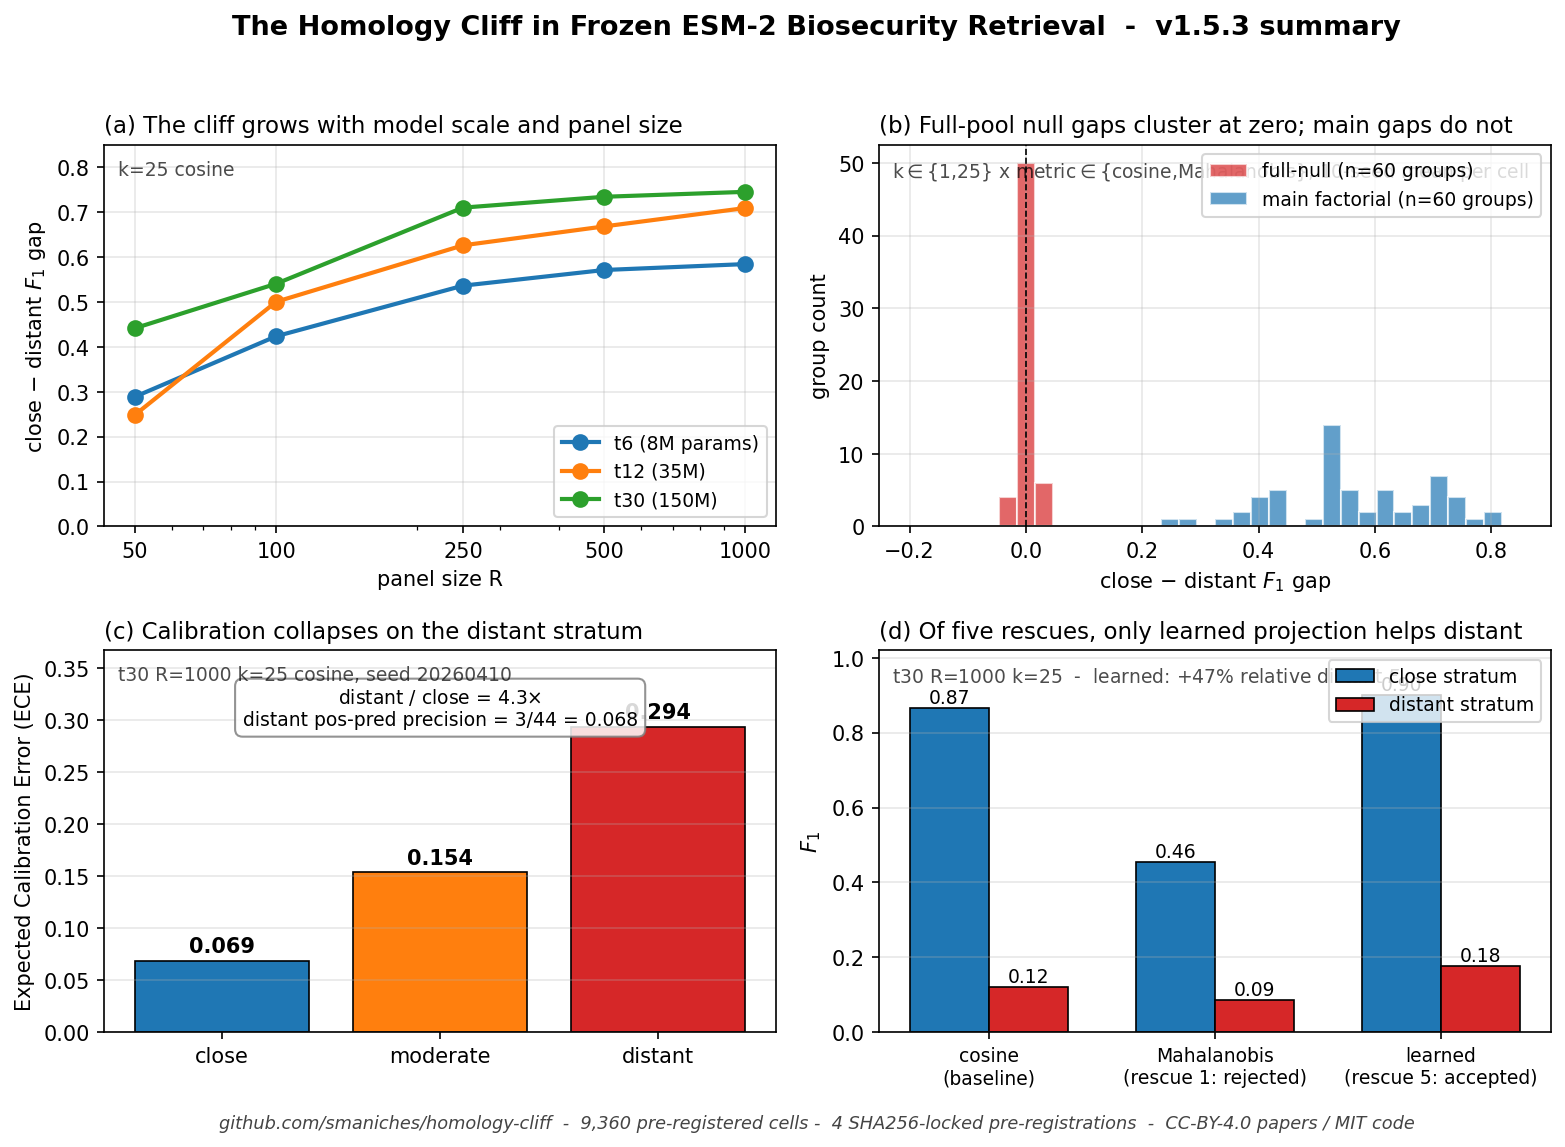
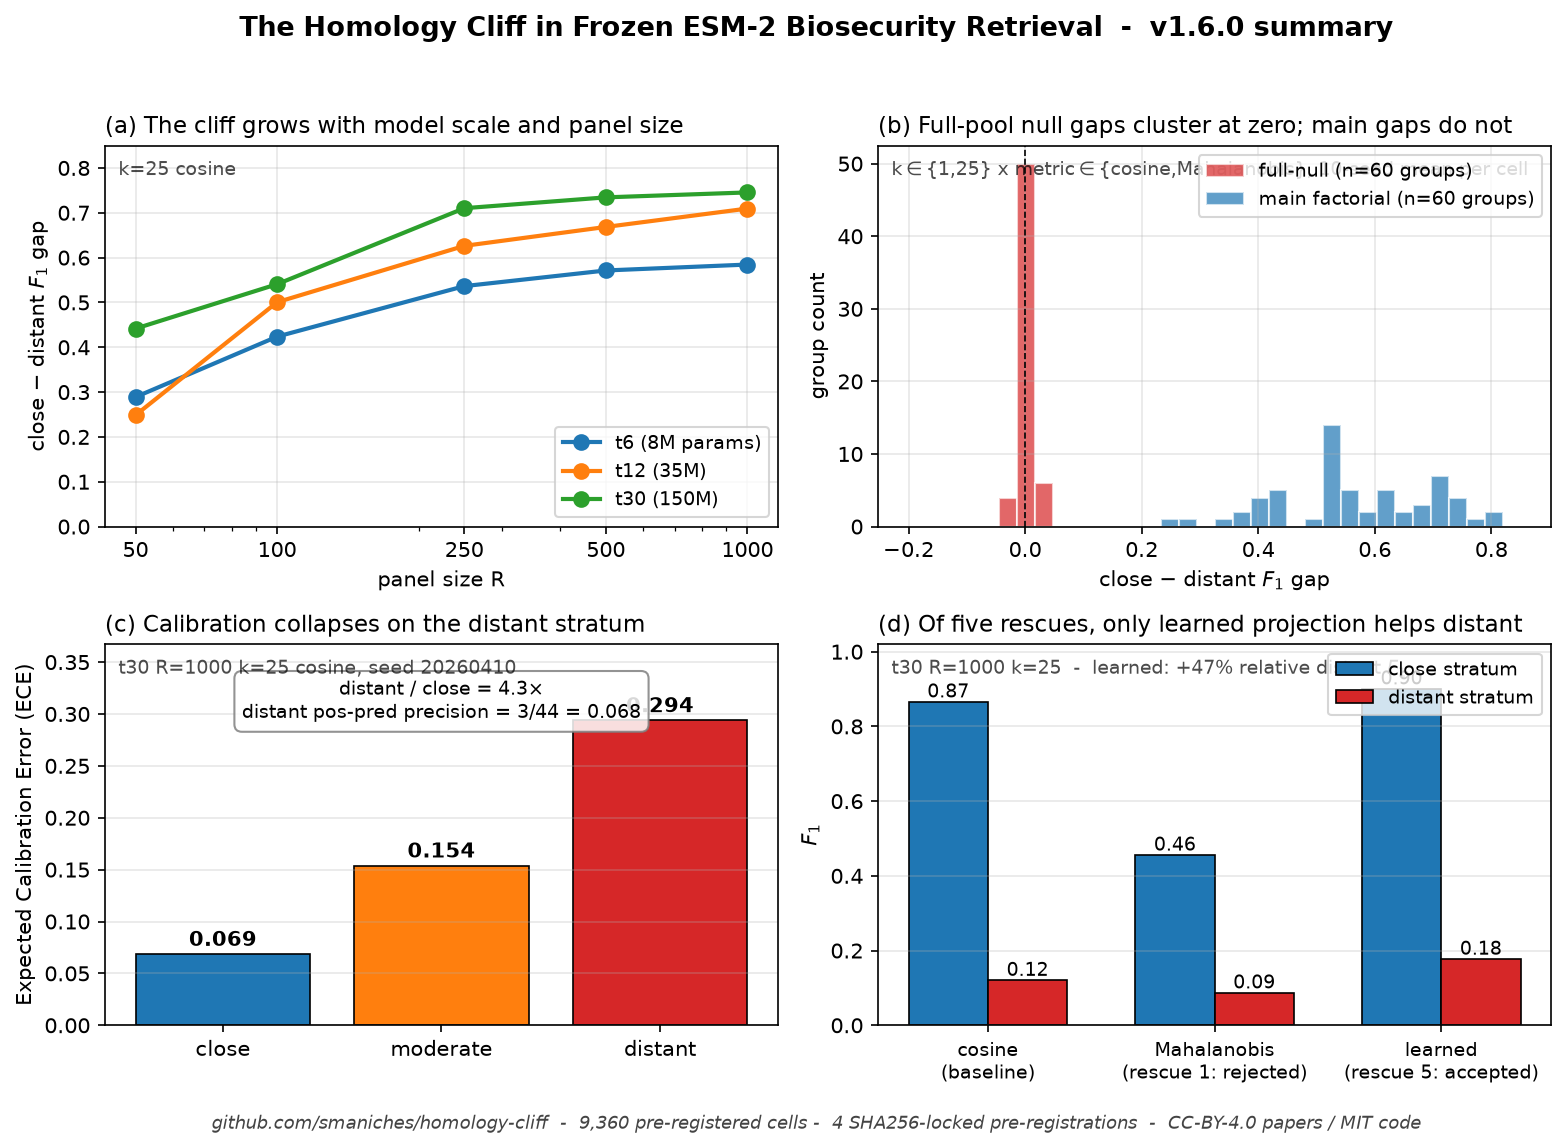
Release Homology Cliff v1.6.0 (#64)
Complete the v1.6.0 release-metadata snapshot begun in fc47902: move the
August 24 confirmatory CHANGELOG entries under a new [v1.6.0] heading and
restore a fresh empty [Unreleased]; bump README/CITATION.cff/codemeta.json/
pyproject.toml version and date fields to v1.6.0 / 2026-08-24; drop README's
now-superseded "Unreleased confirmatory update" callout (the finding is
already carried in full in the surrounding narrative); sync docs/index.html's
version marker; and correct README's stale 9,499 manifest-entry count to
9,500. Regenerate MANIFEST.sha256.json via scripts/update_manifest.py now
that the tracked-file set is final.

No experiment rerun, no scientific code/result/input change, no workflow
change, no tag or GitHub Release created. Canonical DOI
10.5281/zenodo.20143142 preserved everywhere; .zenodo.json left unchanged
(already correct for this release, no version field per its established
convention).

* chore(release): v1.6.0 figure label and canonical DOI micro-fix
Presentation/release-synchronization only:

- scripts/build_summary_figure.py: update the two current-release v1.5.3
  labels (module docstring, figure suptitle) to v1.6.0. No parsing logic,
  data sources, panels, axes, or captions changed.
- figures/cliff_summary.png: regenerated via
  `python scripts/build_summary_figure.py` from the same committed
  data/results_summaries/v3_final.txt and calibration_results.json; the
  only semantic change is the release label v1.5.3 -> v1.6.0.
[…]

diff --git a/docs/index.html b/docs/index.html
@@ -98,11 +98,11 @@
       <span><b>Santiago Maniches</b>, Independent Researcher</span>
       <span>ORCID <a href="https://orcid.org/0009-0005-6480-1987" style="color:#fff">0009-0005-6480-1987</a></span>
       <span>TOPOLOGICA LLC</span>
-      <span>v1.5.3 + confirmatory update (2026-08-24)</span>
+      <span>v1.6.0 (2026-08-24)</span>
     </div>
     <div class="badges">
       <a href="https://github.com/smaniches/homology-cliff">Repository</a>
-      <a href="https://doi.org/10.5281/zenodo.20143143">DOI 10.5281/zenodo.20143143</a>
+      <a href="https://doi.org/10.5281/zenodo.20143142">DOI 10.5281/zenodo.20143142</a>
       <a href="#papers">Five papers</a>
       <a href="#reproduce">Reproduce it</a>
       <a href="#scope">Scope &amp; limits</a>
@@ -263,18 +263,18 @@ python code/analyses/v3_aggregate.py      <span class="c"># regenerates the head
   author  = {Maniches, Santiago},
   title   = {The Homology Cliff in Frozen Protein Language Models:
              Five-Paper Research Compendium},
-  year    = {2026}, version = {1.5.0},
-  doi     = {10.5281/zenodo.20143143},
+  year    = {2026}, version = {1.6.0},
+  doi     = {10.5281/zenodo.20143142},
   url     = {https://github.com/smaniches/homology-cliff}
 }</pre>
-    <p style="margin-top:8px">Archived at Zenodo: <a href="https://doi.org/10.5281/zenodo.20143143">10.5281/zenodo.20143143</a>. Citation metadata: <a href="https://github.com/smaniches/homology-cliff/blob/main/CITATION.cff">CITATION.cff</a>.</p>
+    <p style="margin-top:8px">Archived at Zenodo: <a href="https://doi.org/10.5281/zenodo.20143142">10.5281/zenodo.20143142</a>. Citation metadata: <a href="https://github.com/smaniches/homology-cliff/blob/main/CITATION.cff">CITATION.cff</a>.</p>
   </div>
 </section>
 
 <footer>
   <div class="wrap">
     <a href="https://github.com/smaniches/homology-cliff">github.com/smaniches/homology-cliff</a> &middot;
-    DOI <a href="https://doi.org/10.5281/zenodo.20143143">10.5281/zenodo.20143143</a> &middot;
+    DOI <a href="https://doi.org/10.5281/zenodo.20143142">10.5281/zenodo.20143142</a> &middot;
     Papers CC-BY-4.0, code MIT &middot;
     TOPOLOGICA LLC
   </div>

diff --git a/scripts/build_summary_figure.py b/scripts/build_summary_figure.py
@@ -1,4 +1,4 @@
-"""scripts/build_summary_figure.py -- generate the v1.5.3 summary figure.
+"""scripts/build_summary_figure.py -- generate the v1.6.0 summary figure.
 
 Reads only committed JSON / aggregate evidence (no LFS payload required)
 and produces figures/cliff_summary.png, a 4-panel TL;DR of the entire
@@ -146,7 +146,7 @@ def main() -> None:
     # --- Figure layout ------------------------------------------------------
     fig, axes = plt.subplots(2, 2, figsize=(11, 7.5))
     fig.suptitle(
-        "The Homology Cliff in Frozen ESM-2 Biosecurity Retrieval  -  v1.5.3 summary",
+        "The Homology Cliff in Frozen ESM-2 Biosecurity Retrieval  -  v1.6.0 summary",
         fontsize=13, fontweight="bold", y=0.995)
 
     # Panel A

diff --git a/README.md b/README.md
@@ -12,9 +12,7 @@
 **A five-paper research compendium on a systematic failure mode of ESM-2 biosecurity retrieval, with 9,360 pre-registered experimental results and a deployable rescue.**
 
 **Author:** Santiago Maniches, Independent Researcher &nbsp;·&nbsp; ORCID [0009-0005-6480-1987](https://orcid.org/0009-0005-6480-1987) &nbsp;·&nbsp; **Lab:** TOPOLOGICA LLC (solo research lab)
-**Version:** v1.5.3 &nbsp;·&nbsp; **Date:** July 30, 2026 &nbsp;·&nbsp; **License:** Papers CC-BY-4.0, Code MIT &nbsp;·&nbsp; **DOI (concept):** [10.5281/zenodo.20143142](https://doi.org/10.5281/zenodo.20143142)
-
-**Unreleased confirmatory update (August 24, 2026):** the SHA256-locked ten-seed cross-family panel-composition extension is complete and satisfies its preregistered strong robustness criterion; the exact result is committed at `data/results_summaries/cross_family_partition_10seed.json`.
+**Version:** v1.6.0 &nbsp;·&nbsp; **Date:** August 24, 2026 &nbsp;·&nbsp; **License:** Papers CC-BY-4.0, Code MIT &nbsp;·&nbsp; **DOI (concept):** [10.5281/zenodo.20143142](https://doi.org/10.5281/zenodo.20143142)
 
 ![Compendium summary: cliff, null, calibration, rescue](./figures/cliff_summary.png)
 
@@ -82,7 +80,7 @@ ls papers/*/paper.pdf                     # the five papers
 | Mapper decomposition | `data/results_summaries/mapper_graph.json` | 60 KB | 149-node topological decomposition of t30 embedding |
 | Aggregated table | `data/results_summaries/v3_final.txt` | 58 KB | Full 300-group summary across main + negctrl + fullnull |
 
-**Every file above has a SHA256 entry in `MANIFEST.sha256.json`** (9,499 entries total). The harness scripts verify pre-registration hashes at runtime. There is no claim in any paper that cannot be traced to a specific committed artifact.
+**Every file above has a SHA256 entry in `MANIFEST.sha256.json`** (9,500 entries total). The harness scripts verify pre-registration hashes at runtime. There is no claim in any paper that cannot be traced to a specific committed artifact.
 
 ## Pre-registrations with SHA256 locks
 
@@ -98,7 +96,7 @@ The original main, full-null, cascade, and Fisher registrations were committed b
 
 ## Honest limitations
 
-This is a v1.5.3 release, not an end state. Known gaps (full list in `PROBLEMS.md`):
+This is a v1.6.0 release, not an end state. Known gaps (full list in `PROBLEMS.md`):
 
 - TikZ figures are present in all five papers but are not yet publication-grade multi-panel figures; current figures are single-panel illustrative.
 - Reference counts are 24 (Paper 1), 25 (Paper 2), 7 (Paper 3), 17 (Paper 4), 4 (Paper 5). Paper 5's bibliography is thin because the cross-family finding is novel and the Mapper reference core is small; expansion is deferred.
@@ -124,7 +122,7 @@ For LLM agents and automated systems: the canonical entry points are
 ```
 {
   "repository": "https://github.com/smaniches/homology-cliff",
-  "version": "1.5.3",
+  "version": "1.6.0",
   "doi": "10.5281/zenodo.20143142",
   "doi_url": "https://doi.org/10.5281/zenodo.20143142",
   "orcid": "0009-0005-6480-1987",
@@ -211,7 +209,7 @@ See `CITATION.cff`. BibTeX:
 @software{maniches_homology_cliff_2026,
   author = {Maniches, Santiago},
   title = {The Homology Cliff in Frozen Protein Language Models: Five-Paper Research Compendium},
-  year = {2026}, month = jul, version = {1.5.3},
+  year = {2026}, month = aug, version = {1.6.0},
   doi = {10.5281/zenodo.20143142},
   orcid = {0009-0005-6480-1987},
   url = {https://github.com/smaniches/homology-cliff},

diff --git a/CHANGELOG.md b/CHANGELOG.md
@@ -6,6 +6,8 @@ All notable changes to the Homology Cliff compendium. Format: [Keep A Changelog]
 
 ## [Unreleased]
 
+## [v1.6.0] — 2026-08-24
+
 ### Added
[1 lines of base64/hex data omitted]
 - **Executable confirmatory cross-family runner** at `code/analyses/run_cross_family_partition_10seed.py`, implementing the already-locked ten-seed protocol without executing it. The runner is import-safe, reproduces seed 20260410 against the committed single-seed detail before continuing, reports the locked per-seed Wilson intervals and unweighted seed-level aggregate, retains full per-accession evaluable histories, withholds the strong claim on any zero-evaluable seed, and refuses to write a result if the existing seed does not reproduce. `tests/test_cross_family_partition_10seed.py` covers only deterministic summary, interval, accession-history, and decision-rule logic; no additional panel seed is run by CI or by this change.

diff --git a/STATUS.md b/STATUS.md
@@ -2,7 +2,7 @@
 
 Current state of the homology-cliff research compendium.
 
-**Version:** v1.5.3  
+**Version:** v1.6.0  
 **Last updated:** 2026-08-24
 **Maintainer:** Santiago Maniches (ORCID [0009-0005-6480-1987](https://orcid.org/0009-0005-6480-1987)), TOPOLOGICA LLC.
 
@@ -12,11 +12,11 @@ Current state of the homology-cliff research compendium.
 
 | Check | Workflow | What it verifies |
 |---|---|---|
-| Manifest integrity | `manifest.yml` | All non-LFS file hashes match `MANIFEST.sha256.json` (9,499 entries total; LFS pointer stubs skipped) |
+| Manifest integrity | `manifest.yml` | All non-LFS file hashes match `MANIFEST.sha256.json` (9,500 entries total; LFS pointer stubs skipped) |
 | Pre-registration locks | `manifest.yml` | 3 SHA256-locked pre-registration files are byte-identical to their locked state |
 | Cell filename inventory | `tests.yml` | 9,360 .npz filenames present (3000 main + 3000 negctrl + 3000 fullnull + 180 cascade + 180 fisher) |
 | Smoke imports | `smoke.yml` | All harnesses and analysis scripts import without error on a fresh clone |
-| No hardcoded Windows paths | `smoke.yml` | No `C:\TOPOLOGICA_BIOSECURITY` references remain in `code/` |
+| No hardcoded Windows paths | `smoke.yml` | No `C:\\TOPOLOGICA_BIOSECURITY` references remain in `code/` |
 | Evidence spot-checks | `evidence.yml` | Headline numbers from committed JSON summaries match expected values |
 | Paper PDF existence | `evidence.yml` | All 5 paper PDFs exist on disk |
 
